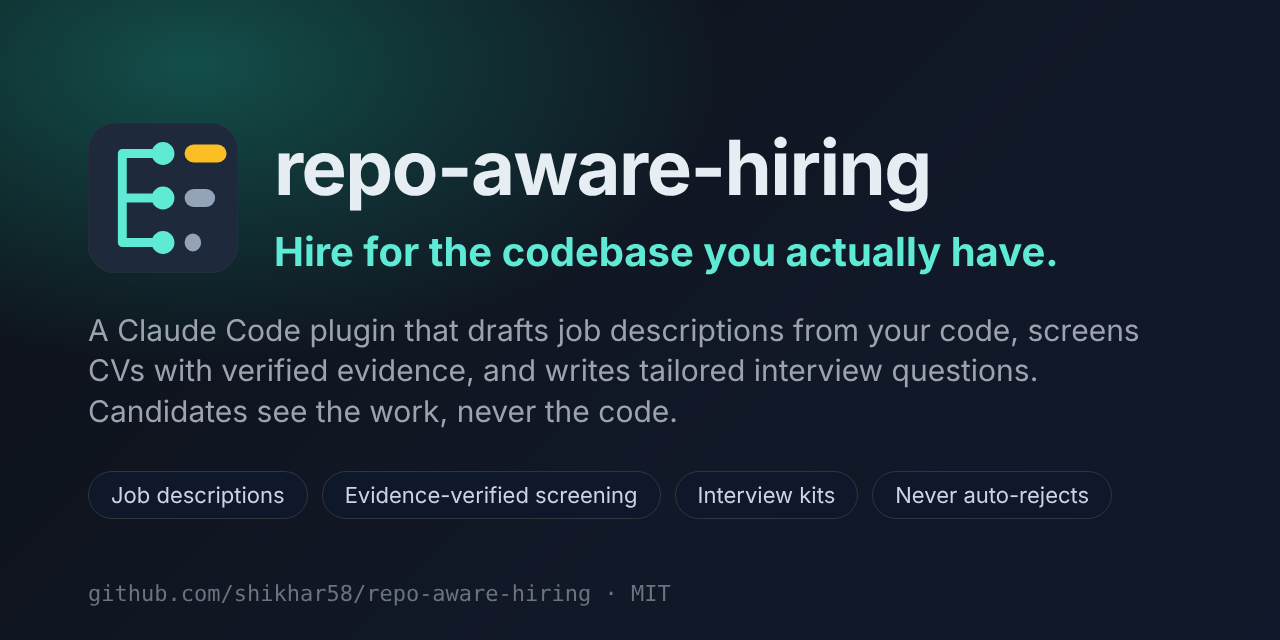
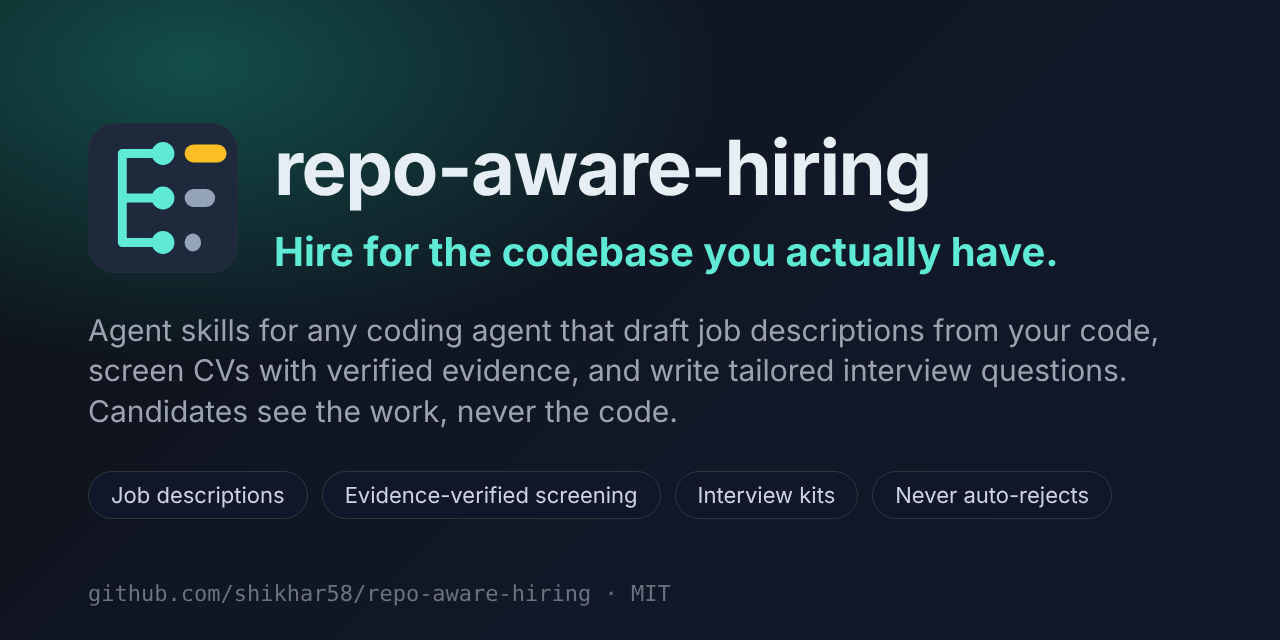
Make the skills agent-neutral and present them for any coding agent (v0.12.0)
- Replace ${CLAUDE_PLUGIN_ROOT} with paths relative to each skill folder;
  say where shared scripts live
- README and social card: skills for any agent that supports Agent Skills,
  with install for Claude Code (plugin) and others (npx skills add)
- CI validates every skill with skills-ref 0.1.5
- Inventory: no fake "HEAD" commit id in repos without commits

Claude-Session: https://claude.ai/code/session_01FWhLsscTBmJ4Bcva6KCRP6

Changed region(s): [[0.0625, 0.5, 0.9062, 0.5938]]

diff --git a/skills/map-codebase/scripts/inventory.py b/skills/map-codebase/scripts/inventory.py
@@ -123,8 +123,10 @@ def read(p, limit=MAX_READ):
 
 def git_head(root):
     try:
-        out = subprocess.run(["git", "-C", str(root), "rev-parse", "HEAD"], capture_output=True, text=True, timeout=10)
-        return out.stdout.strip() or None
+        out = subprocess.run(["git", "-C", str(root), "rev-parse", "--verify", "-q", "HEAD"], capture_output=True,
+                             text=True, timeout=10)
+        head = out.stdout.strip()
+        return head if out.returncode == 0 and re.fullmatch(r"[0-9a-f]{7,64}", head) else None  # None: no commits yet
     except (OSError, subprocess.SubprocessError):
         return None
 

diff --git a/README.md b/README.md
@@ -6,6 +6,7 @@
   <a href="https://github.com/shikhar58/repo-aware-hiring/actions/workflows/selftest.yml"><img src="https://github.com/shikhar58/repo-aware-hiring/actions/workflows/selftest.yml/badge.svg" alt="selftest"></a>
   <a href="LICENSE"><img src="https://img.shields.io/badge/license-MIT-5eead4" alt="MIT license"></a>
   <img src="https://img.shields.io/badge/python-3.10%2B-7dd3fc" alt="Python 3.10+">
+  <img src="https://img.shields.io/badge/Agent%20Skills-any%20coding%20agent-fbbf24" alt="Agent Skills for any coding agent">
   <img src="https://img.shields.io/badge/Claude%20Code-plugin-fbbf24" alt="Claude Code plugin">
   <img src="https://img.shields.io/badge/dependencies-none-94a3b8" alt="No dependencies">
   <img src="https://img.shields.io/badge/status-beta-f87171" alt="Beta">
@@ -29,8 +30,9 @@ Your job description says *"PostgreSQL experience"*. Your codebase says somethin
 migrations run on every container start, tests share one database, and nobody owns backups.
 That's the person you actually need.
 
-**repo-aware-hiring** is a Claude Code plugin, a set of agent skills, that reads your codebase, works out who you
-actually need, and **drafts the job description for that person**: specific about the kind of work, checked for leaks,
+**repo-aware-hiring** is a set of agent skills for your coding agent (Claude Code, Codex, Cursor, Gemini CLI,
+GitHub Copilot or any other agent that supports Agent Skills) that reads your codebase, works out who you actually
+need, and **drafts the job description for that person**: specific about the kind of work, checked for leaks,
 and yours to finish. When applications arrive, it can also screen CVs and résumés against the same requirements and
 write tailored technical interview questions for each candidate.
 
@@ -88,12 +90,23 @@ guesses. [Read the full draft →](docs/example-ollama-jd.md)
 
 ## Get started
 
-In Claude Code:
+It installs into the coding agent you already use.
+
+**Claude Code**, as a plugin:
 
 ```text
 /plugin marketplace add shikhar58/repo-aware-hiring
 /plugin install repo-aware-hiring@repo-aware-hiring
 ```
+
+**Codex, Cursor, Gemini CLI, GitHub Copilot and other agents**, from your repo's folder:
+
+```bash
+npx skills add shikhar58/repo-aware-hiring --skill '*'
+```
+
+This puts the nine skills side by side in your agent's skills folder (for most agents, `.agents/skills/`). To do it
+by hand, copy the `skills/` folder of this repo there instead.
 
 Then open your repo and ask for a posting:
 
@@ -117,7 +130,7 @@ Every question can be answered your own way or skipped. Requires Python 3.10+ (s
 > Close the db-owner round               # when the role is filled
 ```
 
-From a shell instead: `claude plugin marketplace add shikhar58/repo-aware-hiring`, then
+In Claude Code from a shell instead: `claude plugin marketplace add shikhar58/repo-aware-hiring`, then
 `claude plugin install repo-aware-hiring@repo-aware-hiring`. Screening PDF CVs needs `pdftotext` (poppler-utils).
 </details>
 
@@ -451,9 +464,12 @@ Read [`docs/COMPLIANCE.md`](docs/COMPLIANCE.md) and involve your legal team. Thi
 <details>
 <summary><b>Which agents does it work with?</b></summary>
 
-It's built for and tested with Claude Code. The skills use the open Agent Skills format (a `SKILL.md` plus plain
-Python scripts), so other agents that load skills may be able to run them, but only Claude Code has been tested so far.
-If you try another agent, please [tell us how it went](https://github.com/shikhar58/repo-aware-hiring/issues/new?template=feedback.yml).
+Any coding agent that supports the open [Agent Skills](https://agentskills.io) standard and can run shell commands:
+Claude Code, Codex, Cursor, Gemini CLI, GitHub Copilot and others. Each skill is a folder with a `SKILL.md` and plain
+Python scripts (standard library only), referenced by relative paths, and every skill passes the standard's reference
+validator in CI. Claude Code users can also install it as a plugin. The planning questions use your agent's
+multiple-choice question tool when it has one, and plain text otherwise. Tell us how it works in your agent:
+[share feedback](https://github.com/shikhar58/repo-aware-hiring/issues/new?template=feedback.yml).
 </details>
 
 <details>

diff --git a/skills/write-job-description/SKILL.md b/skills/write-job-description/SKILL.md
@@ -10,9 +10,8 @@ the repo, safe because it reveals nothing internal, and fair because it asks onl
 
 ## Before anything else: readiness, focus and decisions
 
-Run `python3 -I ${CLAUDE_PLUGIN_ROOT}/skills/hiring-workspace/scripts/check_ready.py <repo-or-workspace> --role <role-slug> --stage jd`
-(or the same script relative to this skill: `../hiring-workspace/scripts/check_ready.py`). It works on one repo and on a
-multi-repo workspace.
+Run `python3 -I ../hiring-workspace/scripts/check_ready.py <repo-or-workspace> --role <role-slug> --stage jd`. It works on one repo and on a
+multi-repo workspace. Paths in this file are relative to this skill's folder (the folder that holds this `SKILL.md`); skills are installed side by side, so `../<other-skill>/` reaches a sibling skill. Shared scripts named without a path (`check_ready.py`, `decisions.py`, `focus.py`, `trace_usage.py`, `workspace.py`) are in `../hiring-workspace/scripts/`; `check_map.py` and `inventory.py` are in `../map-codebase/scripts/`; any other script is in `../<skill>/scripts/` of the skill that owns it.
 - **NOT READY**: fix what it names and re-run. A missing or stale map → the `map-codebase` skill (or update the sections
   it lists); a missing or stale system map → the `hiring-workspace` skill; a rejected focus → edit `focus.md`. Do not
   continue on a missing or stale map: everything below depends on understanding the whole system, not a sample of it.
@@ -157,8 +156,7 @@ Writing rules:
 
 ### 4. Check it
 
-Run `python3 -I scripts/check_jd.py hiring/<role-slug>` (the script lives next to this file;
-`${CLAUDE_PLUGIN_ROOT}/skills/write-job-description/scripts/check_jd.py` when installed).
+Run `python3 -I scripts/check_jd.py hiring/<role-slug>` (the script lives next to this file).
 - **Errors** (exit code 1) are possible leaks of internal details: fix every one, then re-run.
 - **Warnings** are inclusive-language, structure and consistency issues. Fix them or tell the user why one is
   intentional. Show the user what you changed.

diff --git a/skills/screen-candidates/SKILL.md b/skills/screen-candidates/SKILL.md
@@ -6,15 +6,13 @@ description: Screen a folder of software engineer CVs against an approved, repo-
 # Screen Candidates
 
 The pipeline is mostly deterministic scripts; the model's jobs are confirming names, reviewing the
-redaction and step 4 (scoring). Scripts live in `scripts/` next to this file
-(`${CLAUDE_PLUGIN_ROOT}/skills/screen-candidates/scripts` when installed as a plugin).
-Run them with `python3 -I`. They need only the standard library, plus `pdftotext`
+redaction and step 4 (scoring). Scripts live in `scripts/` next to this file.
+Run them with `python3 -I`. Paths in this file are relative to this skill's folder (the folder that holds this `SKILL.md`); skills are installed side by side, so `../<other-skill>/` reaches a sibling skill. Shared scripts named without a path (`check_ready.py`, `decisions.py`, `focus.py`, `trace_usage.py`, `workspace.py`) are in `../hiring-workspace/scripts/`; `check_map.py` and `inventory.py` are in `../map-codebase/scripts/`; any other script is in `../<skill>/scripts/` of the skill that owns it. They need only the standard library, plus `pdftotext`
 (poppler-utils) for PDF CVs.
 
 ## Before anything else: readiness, focus and decisions
 
-Run `python3 -I ${CLAUDE_PLUGIN_ROOT}/skills/hiring-workspace/scripts/check_ready.py <repo-or-workspace> --role <role-slug> --stage screen`
-(or the same script relative to this skill: `../hiring-workspace/scripts/check_ready.py`). It works on one repo and on a
+Run `python3 -I ../hiring-workspace/scripts/check_ready.py <repo-or-workspace> --role <role-slug> --stage screen`. It works on one repo and on a
 multi-repo workspace.
 - **NOT READY**: fix what it names and re-run. A missing or stale map → the `map-codebase` skill (or update the sections
   it lists); a missing or stale system map → the `hiring-workspace` skill; a rejected focus → edit `focus.md`. Do not

diff --git a/skills/interview-kit/SKILL.md b/skills/interview-kit/SKILL.md
@@ -11,8 +11,7 @@ Produce, for one role:
 - `hiring/<role-slug>/interviews/<candidate-id>.json`: personal questions for that candidate.
 - Rendered kits `interviews/<candidate-id>.html` (printable scorecard) and `.md`, via `render_kit.py`.
 
-Scripts are in `scripts/` next to this file (`${CLAUDE_PLUGIN_ROOT}/skills/interview-kit/scripts` when installed).
-Run them with `python3 -I`.
+Scripts are in `scripts/` next to this file. Run them with `python3 -I`. Paths in this file are relative to this skill's folder (the folder that holds this `SKILL.md`); skills are installed side by side, so `../<other-skill>/` reaches a sibling skill. Shared scripts named without a path (`check_ready.py`, `decisions.py`, `focus.py`, `trace_usage.py`, `workspace.py`) are in `../hiring-workspace/scripts/`; `check_map.py` and `inventory.py` are in `../map-codebase/scripts/`; any other script is in `../<skill>/scripts/` of the skill that owns it.
 
 ## Why this structure
 
@@ -23,8 +22,7 @@ They never replace the core questions.
 
 ## Before anything else: readiness, focus and decisions
 
-Run `python3 -I ${CLAUDE_PLUGIN_ROOT}/skills/hiring-workspace/scripts/check_ready.py <repo-or-workspace> --role <role-slug> --stage interview`
-(or the same script relative to this skill: `../hiring-workspace/scripts/check_ready.py`). It works on one repo and on a
+Run `python3 -I ../hiring-workspace/scripts/check_ready.py <repo-or-workspace> --role <role-slug> --stage interview`. It works on one repo and on a
 multi-repo workspace.
 - **NOT READY**: fix what it names and re-run. A missing or stale map → the `map-codebase` skill (or update the sections
   it lists); a missing or stale system map → the `hiring-workspace` skill; a rejected focus → edit `focus.md`. Do not

diff --git a/skills/hiring-plan/SKILL.md b/skills/hiring-plan/SKILL.md
@@ -12,9 +12,8 @@ repo, what success looks like, and the role shape the user chose. Every later sk
 
 ## Before anything else: readiness, focus and decisions
 
-Run `python3 -I ${CLAUDE_PLUGIN_ROOT}/skills/hiring-workspace/scripts/check_ready.py <repo-or-workspace> --role <role-slug> --stage plan`
-(or the same script relative to this skill: `../hiring-workspace/scripts/check_ready.py`). It works on one repo and on a
-multi-repo workspace.
+Run `python3 -I ../hiring-workspace/scripts/check_ready.py <repo-or-workspace> --role <role-slug> --stage plan`. It works on one repo and on a
+multi-repo workspace. Paths in this file are relative to this skill's folder (the folder that holds this `SKILL.md`); skills are installed side by side, so `../<other-skill>/` reaches a sibling skill. Shared scripts named without a path (`check_ready.py`, `decisions.py`, `focus.py`, `trace_usage.py`, `workspace.py`) are in `../hiring-workspace/scripts/`; `check_map.py` and `inventory.py` are in `../map-codebase/scripts/`; any other script is in `../<skill>/scripts/` of the skill that owns it.
 - **NOT READY**: fix what it names and re-run. A missing or stale map → the `map-codebase` skill (or update the sections
   it lists); a missing or stale system map → the `hiring-workspace` skill; a rejected focus → edit `focus.md`. Do not
   continue on a missing or stale map: everything below depends on understanding the whole system, not a sample of it.

diff --git a/skills/repo-profile/SKILL.md b/skills/repo-profile/SKILL.md
@@ -12,9 +12,8 @@ candidate, so the repo is never re-read per CV.
 
 ## Before anything else: readiness, focus and decisions
 
-Run `python3 -I ${CLAUDE_PLUGIN_ROOT}/skills/hiring-workspace/scripts/check_ready.py <repo-or-workspace> --role <role-slug> --stage profile`
-(or the same script relative to this skill: `../hiring-workspace/scripts/check_ready.py`). It works on one repo and on a
-multi-repo workspace.
+Run `python3 -I ../hiring-workspace/scripts/check_ready.py <repo-or-workspace> --role <role-slug> --stage profile`. It works on one repo and on a
+multi-repo workspace. Paths in this file are relative to this skill's folder (the folder that holds this `SKILL.md`); skills are installed side by side, so `../<other-skill>/` reaches a sibling skill. Shared scripts named without a path (`check_ready.py`, `decisions.py`, `focus.py`, `trace_usage.py`, `workspace.py`) are in `../hiring-workspace/scripts/`; `check_map.py` and `inventory.py` are in `../map-codebase/scripts/`; any other script is in `../<skill>/scripts/` of the skill that owns it.
 - **NOT READY**: fix what it names and re-run. A missing or stale map → the `map-codebase` skill (or update the sections
   it lists); a missing or stale system map → the `hiring-workspace` skill; a rejected focus → edit `focus.md`. Do not
   continue on a missing or stale map: everything below depends on understanding the whole system, not a sample of it.

diff --git a/skills/hiring-rubric/SKILL.md b/skills/hiring-rubric/SKILL.md
@@ -11,9 +11,8 @@ a human has approved it.**
 
 ## Before anything else: readiness, focus and decisions
 
-Run `python3 -I ${CLAUDE_PLUGIN_ROOT}/skills/hiring-workspace/scripts/check_ready.py <repo-or-workspace> --role <role-slug> --stage rubric`
-(or the same script relative to this skill: `../hiring-workspace/scripts/check_ready.py`). It works on one repo and on a
-multi-repo workspace.
+Run `python3 -I ../hiring-workspace/scripts/check_ready.py <repo-or-workspace> --role <role-slug> --stage rubric`. It works on one repo and on a
+multi-repo workspace. Paths in this file are relative to this skill's folder (the folder that holds this `SKILL.md`); skills are installed side by side, so `../<other-skill>/` reaches a sibling skill. Shared scripts named without a path (`check_ready.py`, `decisions.py`, `focus.py`, `trace_usage.py`, `workspace.py`) are in `../hiring-workspace/scripts/`; `check_map.py` and `inventory.py` are in `../map-codebase/scripts/`; any other script is in `../<skill>/scripts/` of the skill that owns it.
 - **NOT READY**: fix what it names and re-run. A missing or stale map → the `map-codebase` skill (or update the sections
   it lists); a missing or stale system map → the `hiring-workspace` skill; a rejected focus → edit `focus.md`. Do not
   continue on a missing or stale map: everything below depends on understanding the whole system, not a sample of it.

diff --git a/CHANGELOG.md b/CHANGELOG.md
@@ -3,7 +3,24 @@
 All notable changes are listed here. The project follows [Semantic Versioning](https://semver.org/);
 before 1.0, minor versions may change file formats.
 
-## [0.11.0] — 2026-11-09
+## [0.12.0] — 2026-11-09
+
+### Changed
+- **Agent-neutral skills.** Every `SKILL.md` refers to scripts by paths relative to its own folder (and
+  `../<skill>/` for a sibling skill) instead of Claude Code's `${CLAUDE_PLUGIN_ROOT}`, and says where shared scripts
+  live. The skills work in any agent that supports the Agent Skills standard; Claude Code can still install them
+  as a plugin.
+- README: presents the skills for any coding agent, with install instructions for Claude Code and for Codex, Cursor,
+  Gemini CLI, GitHub Copilot and others (`npx skills add shikhar58/repo-aware-hiring --skill '*'`). The social preview
+  card matches.
+
+### Added
+- CI job that validates every skill with the Agent Skills reference validator (`skills-ref` 0.1.5).
+
+### Fixed
+- In a repository with no commits yet, the inventory recorded the commit as "HEAD" instead of none.
+
+ — 2026-11-09
 
 Aligned with Anthropic's plugin directory requirements and its Usage Policy, which from 12 November 2026 treats
 screening and ranking candidates as a high-risk use.

diff --git a/skills/hiring-workspace/SKILL.md b/skills/hiring-workspace/SKILL.md
@@ -18,8 +18,7 @@ Several repos? A **workspace** keeps everything in one private folder outside al
   roles/<role>/           focus.md, decisions.json, and everything the other skills write for that role
 ```
 
-Scripts are in `scripts/` next to this file (`${CLAUDE_PLUGIN_ROOT}/skills/hiring-workspace/scripts`). Run them with
-`python3 -I`. Planning checkpoints follow [CHECKPOINTS.md](CHECKPOINTS.md).
+Scripts are in `scripts/` next to this file. Run them with `python3 -I`. Paths in this file are relative to this skill's folder (the folder that holds this `SKILL.md`); skills are installed side by side, so `../<other-skill>/` reaches a sibling skill. Shared scripts named without a path (`check_ready.py`, `decisions.py`, `focus.py`, `trace_usage.py`, `workspace.py`) are in this skill's `scripts/`; `check_map.py` and `inventory.py` are in `../map-codebase/scripts/`; any other script is in `../<skill>/scripts/` of the skill that owns it. Planning checkpoints follow [CHECKPOINTS.md](CHECKPOINTS.md).
 
 ## 1. Checkpoint `workspace`: which repos, which matter most
 

diff --git a/skills/close-round/SKILL.md b/skills/close-round/SKILL.md
@@ -5,8 +5,7 @@ description: Close a hiring round and delete candidate personal data (extracted 
 
 # Close Round
 
-Script: `scripts/cleanup.py` next to this file
-(`${CLAUDE_PLUGIN_ROOT}/skills/close-round/scripts/cleanup.py` when installed). Run with `python3 -I`.
+Script: `scripts/cleanup.py` next to this file. Run with `python3 -I`. Paths in this file are relative to this skill's folder (the folder that holds this `SKILL.md`); skills are installed side by side, so `../<other-skill>/` reaches a sibling skill. Shared scripts named without a path (`check_ready.py`, `decisions.py`, `focus.py`, `trace_usage.py`, `workspace.py`) are in `../hiring-workspace/scripts/`; `check_map.py` and `inventory.py` are in `../map-codebase/scripts/`; any other script is in `../<skill>/scripts/` of the skill that owns it.
 It deletes only inside the role folder and never follows symlinks.
 
 In a multi-repo workspace the role folder is `<workspace>/roles/<role-slug>`; the sweep takes `<workspace>/roles`.

diff --git a/skills/map-codebase/SKILL.md b/skills/map-codebase/SKILL.md
@@ -13,8 +13,7 @@ Output (repo-level, shared by all roles; keep `hiring/` git-ignored):
 - `hiring/_repo/inventory.json` — the deterministic checklist
 - `hiring/_repo/codebase-map.md` — the map
 
-Scripts are in `scripts/` next to this file (`${CLAUDE_PLUGIN_ROOT}/skills/map-codebase/scripts` when installed).
-Run them with `python3 -I`.
+Scripts are in `scripts/` next to this file. Run them with `python3 -I`. Paths in this file are relative to this skill's folder (the folder that holds this `SKILL.md`); skills are installed side by side, so `../<other-skill>/` reaches a sibling skill. Shared scripts named without a path (`check_ready.py`, `decisions.py`, `focus.py`, `trace_usage.py`, `workspace.py`) are in `../hiring-workspace/scripts/`; `check_map.py` and `inventory.py` are in `../map-codebase/scripts/`; any other script is in `../<skill>/scripts/` of the skill that owns it.
 
 ## Procedure
 
